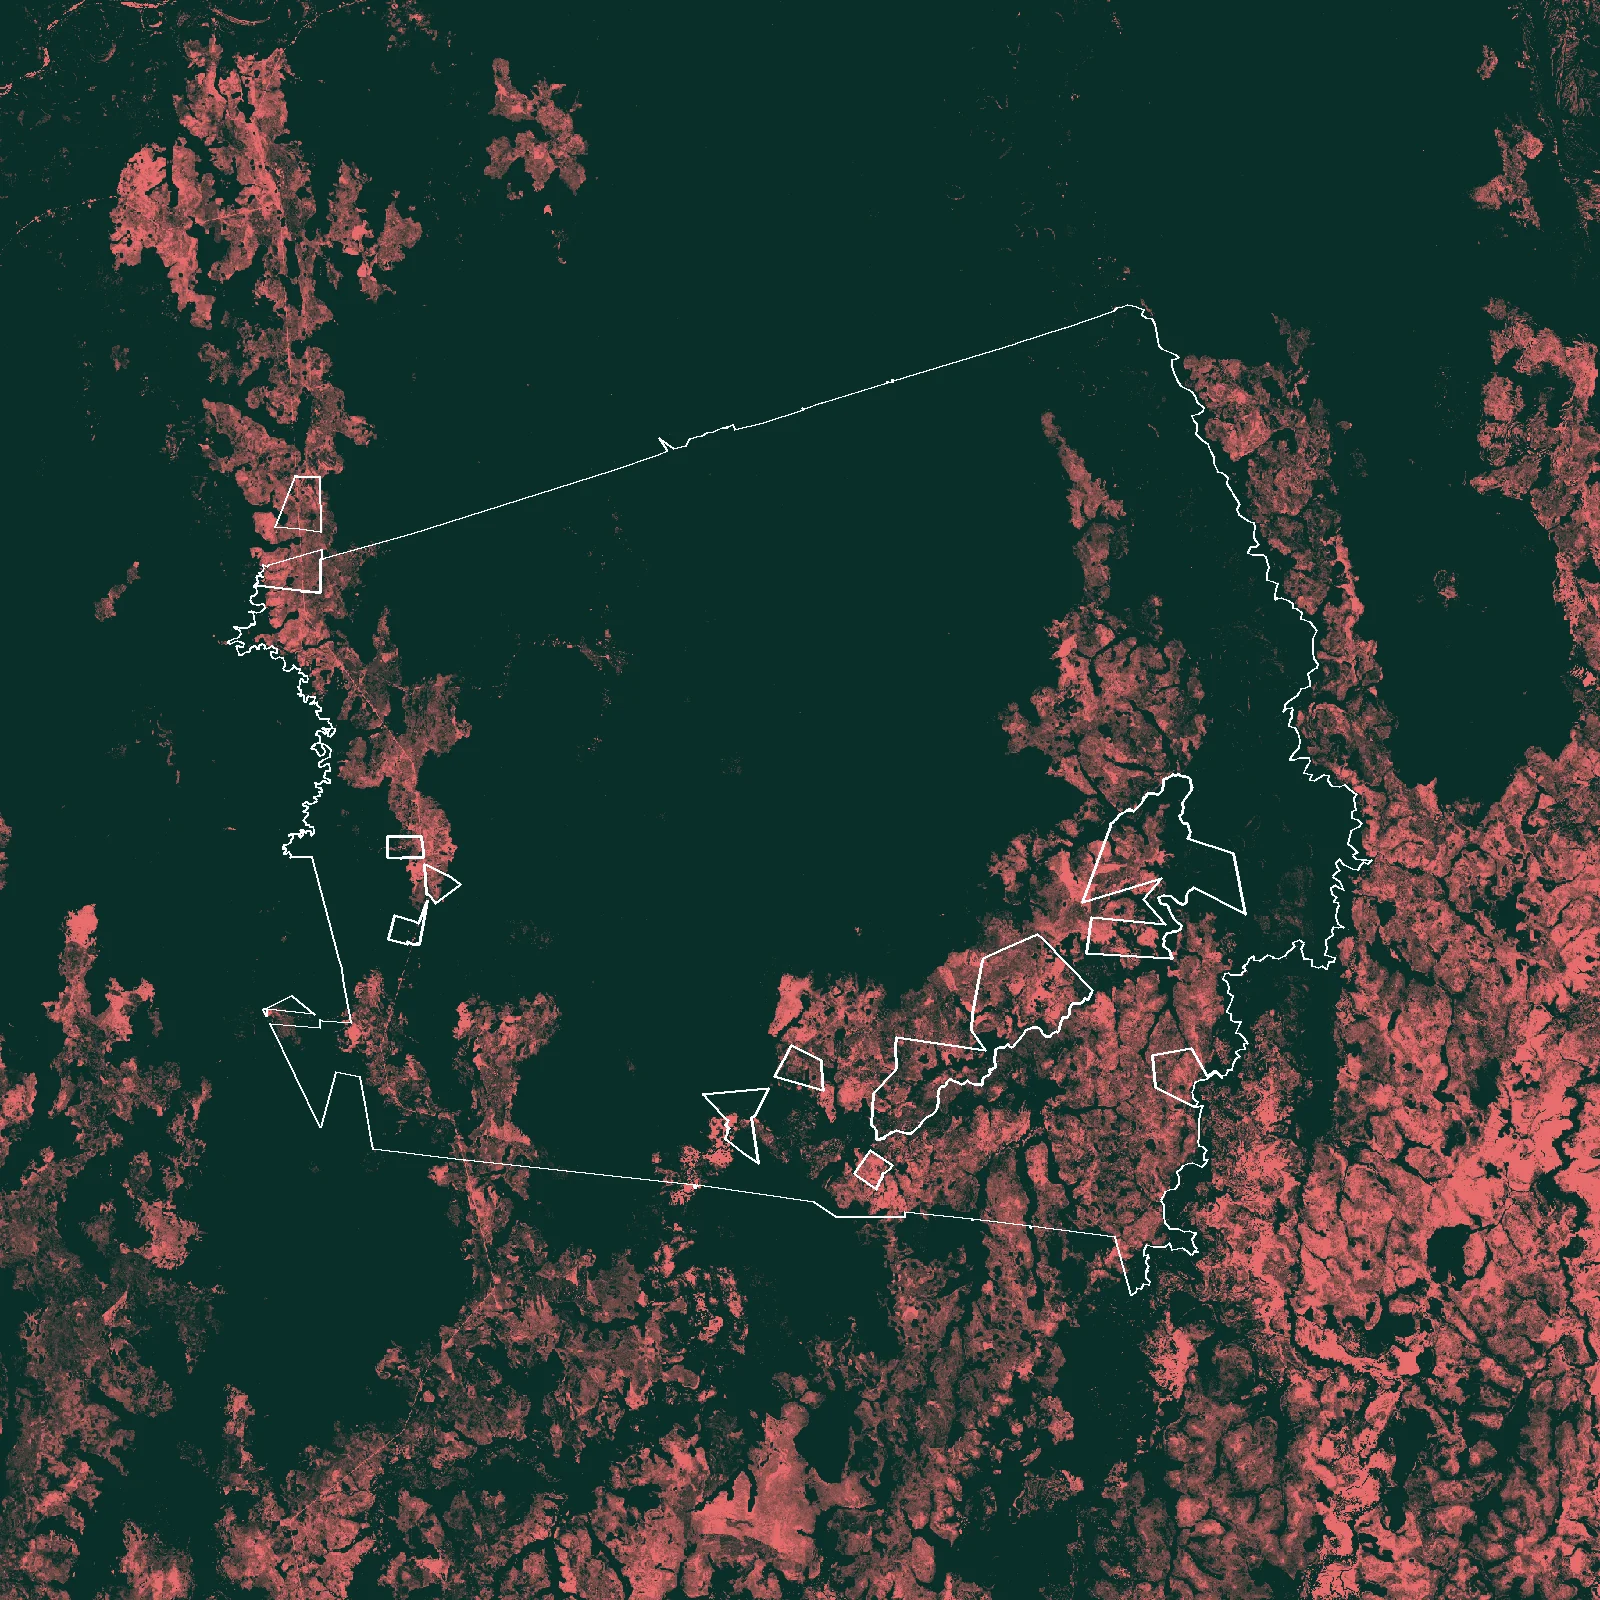
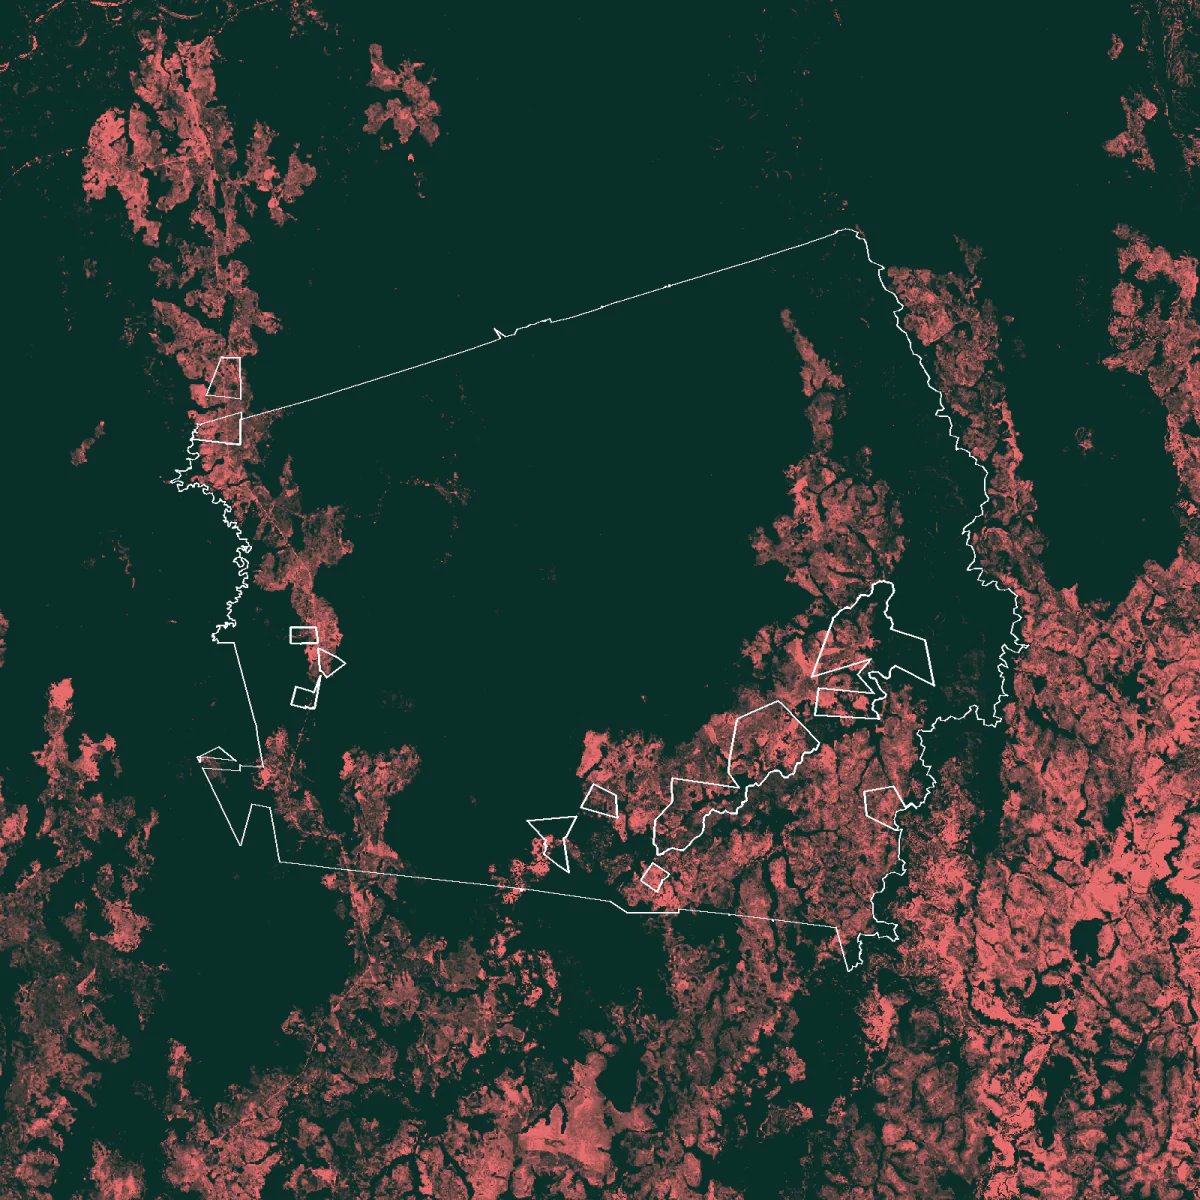
Optimized for low bandwidth.

Changed region(s): [[0.9867, 0.9867, 1.0, 1.0]]

diff --git a/src/components/intro/intro.scss b/src/components/intro/intro.scss
@@ -1,6 +1,8 @@
 .intro {
   // adjust story intro image here (root-relative path into public/)
-  background-image: url('/intro.png');
+  // WebP: the source is a 3380px photographic collage, and as PNG it was
+  // 13.8 MB blocking first paint. Same pixels, ~90% smaller.
+  background-image: url('/intro.webp');
   background-size: cover;
   background-position: center center;
   max-height: 100vh;
